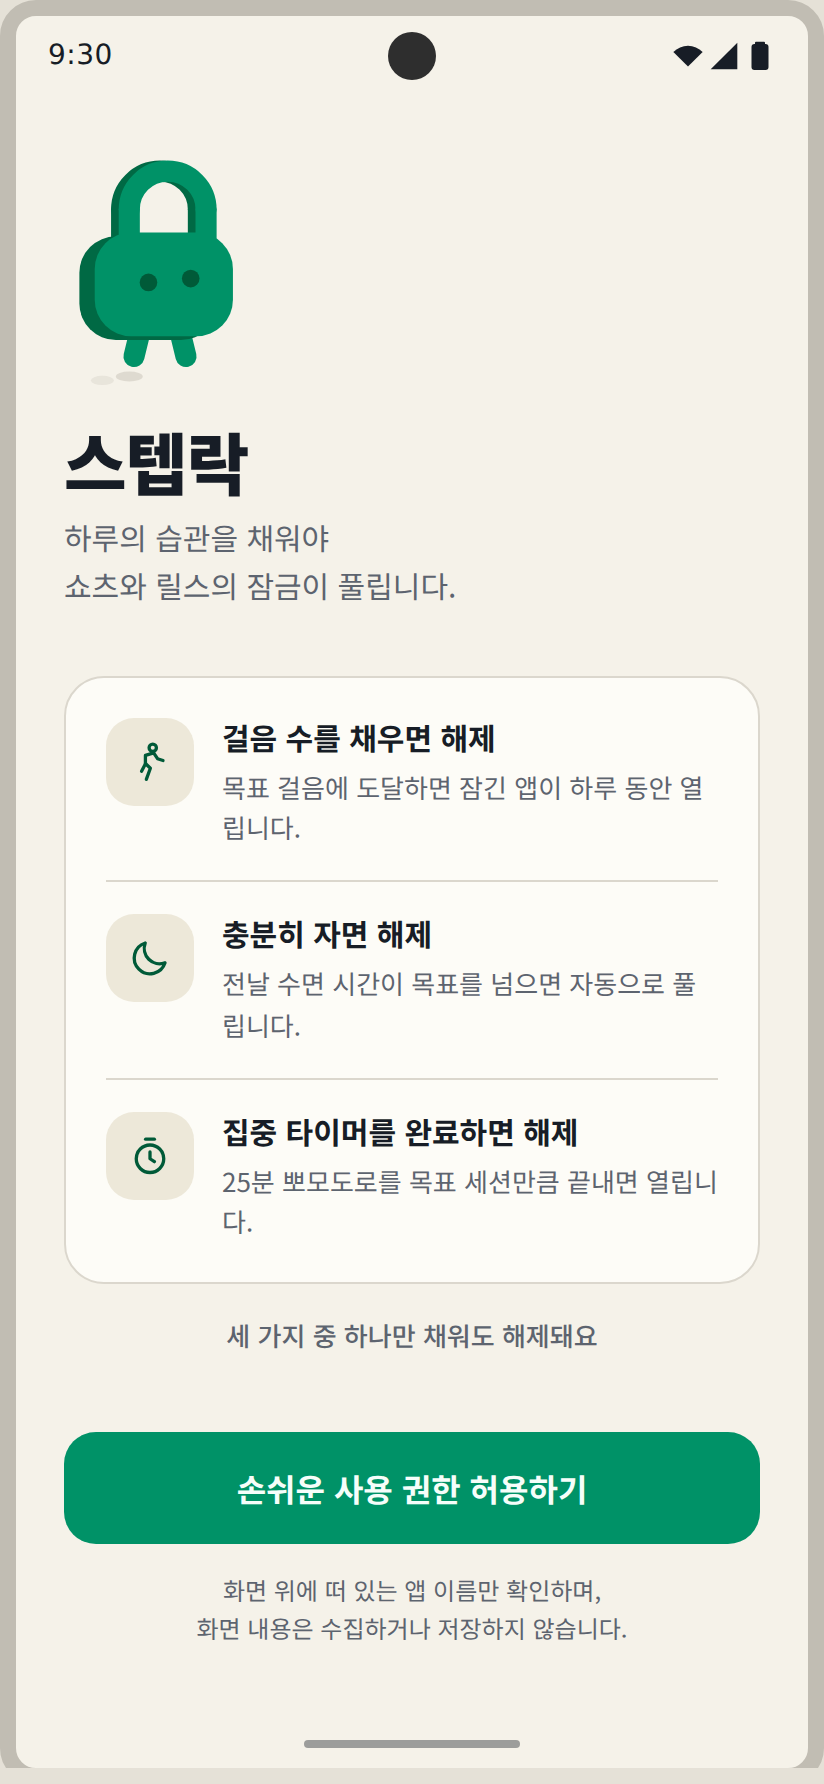
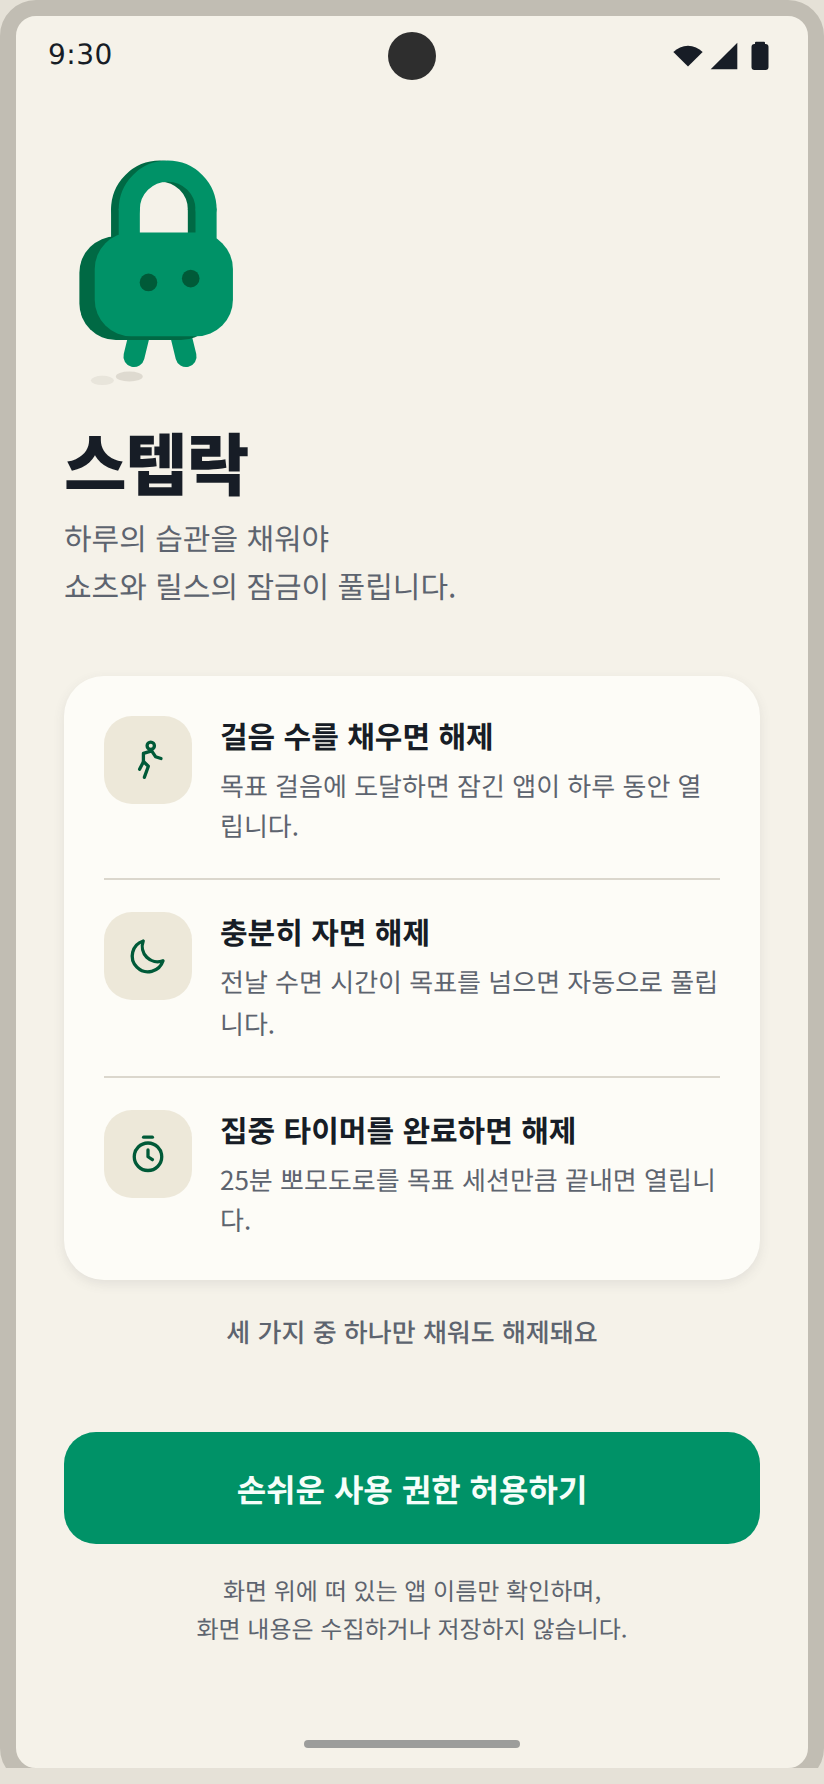
임포트 두 개 복구 — StepLockMascot, RoundedCornerShape
임포트를 자동으로 정리하는 스크립트가 지금 쓰이지 않는다고 판단해
지웠는데, 같은 커밋에서 다시 쓰기 시작한 것들이었습니다. 헤더의 캐릭터와
설정 카드의 모서리가 그렇습니다. 앞으로는 필요한 임포트를 명시적으로
추가하고 자동 정리는 쓰지 않습니다.

Claude-Session: https://claude.ai/code/session_01TfDVSB28YoT3k36WsBEoLF

diff --git a/app/src/main/java/com/steplock/app/ui/screens/SettingsScreen.kt b/app/src/main/java/com/steplock/app/ui/screens/SettingsScreen.kt
@@ -13,6 +13,7 @@ import androidx.compose.foundation.layout.padding
 import androidx.compose.foundation.layout.statusBarsPadding
 import androidx.compose.foundation.rememberScrollState
 import androidx.compose.foundation.selection.toggleable
+import androidx.compose.foundation.shape.RoundedCornerShape
 import androidx.compose.foundation.verticalScroll
 import androidx.compose.material3.Text
 import androidx.compose.runtime.Composable

diff --git a/app/src/main/java/com/steplock/app/ui/screens/HomeScreen.kt b/app/src/main/java/com/steplock/app/ui/screens/HomeScreen.kt
@@ -50,6 +50,7 @@ import com.steplock.app.ui.components.SlDivider
 import com.steplock.app.ui.components.SlEmptyState
 import com.steplock.app.ui.components.SlIcons
 import com.steplock.app.ui.components.SlPanel
+import com.steplock.app.ui.components.StepLockMascot
 import com.steplock.app.ui.components.StepTrack
 import com.steplock.app.ui.components.WeekDay
 import com.steplock.app.ui.components.WeekRail
